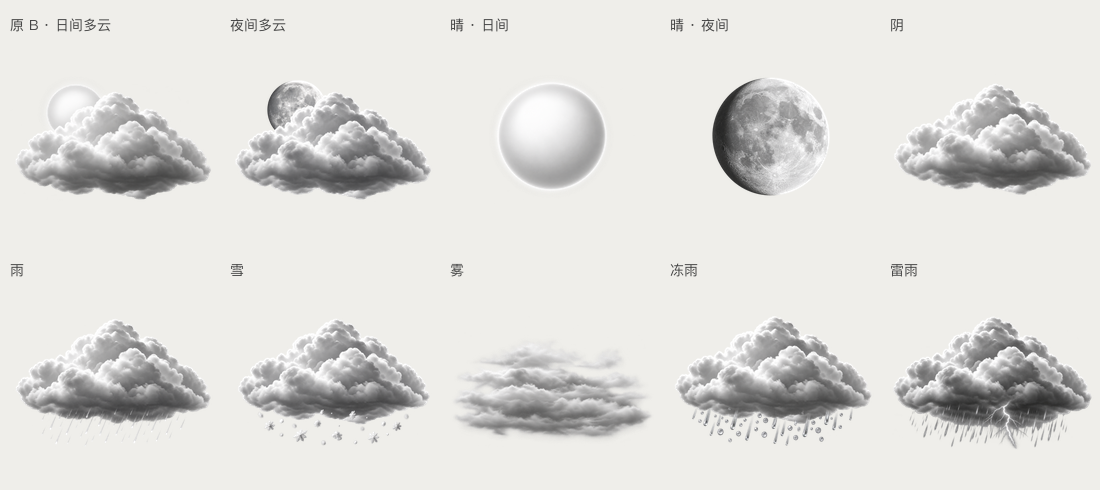
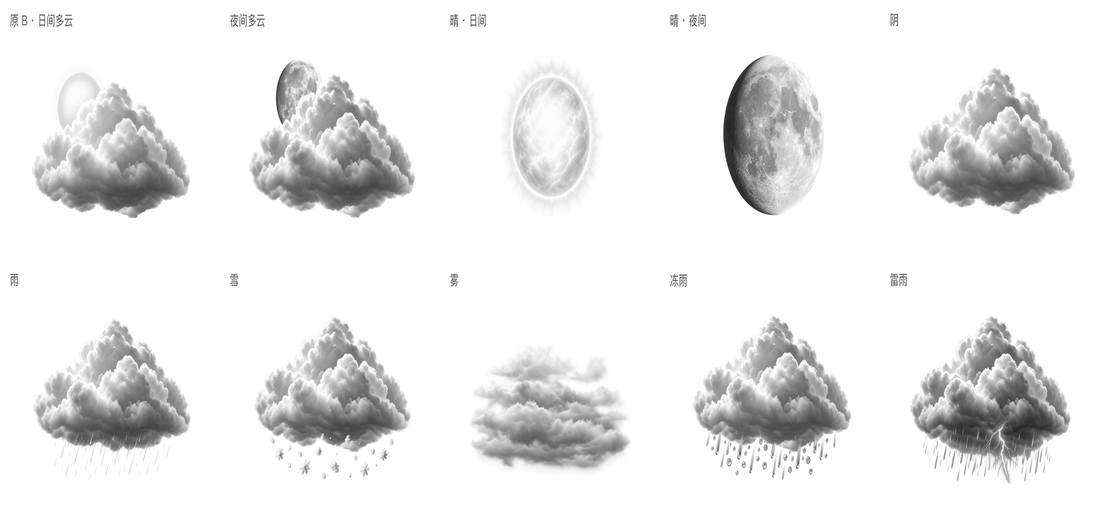
Update sunny artwork, grayscale previews and generation notes

diff --git a/test_weather_app.py b/test_weather_app.py
@@ -96,6 +96,9 @@ class WeatherTests(unittest.TestCase):
     def test_details_is_quiet_and_fetch_runs_hourly(self):
         with tempfile.TemporaryDirectory() as d:
             app=App(DEFAULTS,Path(d));app.action('details');app.last_fetch=10
+            # Keep the initial render on the fixture date so running this test
+            # on another day does not trigger the intentional midnight redraw.
+            app.render(now=NOW)
             with patch.object(app,'fetch') as fetch,patch.object(app,'render') as repaint:
                 app.tick(now=NOW+timedelta(minutes=1),monotonic_now=70)
                 app.tick(now=NOW+timedelta(minutes=59),monotonic_now=3609)

diff --git a/assets/weather-realistic-v1/README.md b/assets/weather-realistic-v1/README.md
@@ -30,3 +30,9 @@
 > Use case: lighting-weather. Edit target: the supplied partly-cloudy weather asset, the established master asset for a grayscale e-paper weather application. Create its NIGHT PARTLY CLOUDY companion. Preserve the SAME detailed natural billowing cumulus cloud silhouette, position, proportions, fine volumetric texture, broad gray shadow masses and silver-white highlights. Change only the celestial object behind upper left: replace the sun with a natural photographic gibbous moon with subtle lunar craters, its lower portion naturally occluded by the unchanged clouds. The moon must be recognizable as moon, with no symbolic crescent outline, no rays, no drawn stars. Keep a predominantly white/silver-gray cloud with readable darker undersides, not a black night scene. Same camera, framing, scale, white light direction, sophisticated photorealistic weather cutout style as supplied asset, not cartoon, not vector, not rounded toy cloud. GENUINELY TRANSPARENT BACKGROUND AND CLEAN ALPHA outside the cloud and moon. No black/gray rectangular background, no square glow backdrop, no scene, no text, no border, no UI, no noise or halftone/dither. Output one single matching night partly cloudy asset.
 
 生成结果做一次本地形态/透明度检查、整套对照与400×300主屏/总览预览；用户新一轮实屏风格验收另计，不把生成完成等同于全部实屏验收。
+
+## 日晴图更新（2026-10-22）
+
+日晴改用 `clear-day-illustrated-v7.png`，沿用原B晴间多云参考，目标是介于卡通与写实之间的细腻天气插画：柔和明暗层次、连续灰度、整圈细短柔光。`manifest.json` 更新为版本7（与开发图稿编号一致），包含新文件SHA-256及首页安全框；首页、此刻与七日继续共用这张日晴素材。其余九款及天气代码映射保持。旧 `clear-day.png` 保留供回退。
+
+本轮仅同步最新设计，日晴的表面纹理与柔光效果仍待打磨，尚未通过用户视觉验收。文档预览使用模拟数据，不表示实屏效果。前几轮已否定的尖刺、碎光与概念图未收录。完整本次生成提示词见 [clear-day-illustrated-v7-prompt.txt](clear-day-illustrated-v7-prompt.txt)。

diff --git a/docs/VALIDATION.md b/docs/VALIDATION.md
@@ -10,3 +10,11 @@
 - 本次打包没有连接真实 NOTE4、推图、重启本地生产应用或烧写固件。Linux/Windows、其他固件及长期运行未在本次验证；离线测试不代表这些环境的实机验收。
 
 已知限制：主机需持续运行；时区固定 Asia/Shanghai；Gray16 当前固件全刷；无设备端应用安装器、自动重连、语音识别或独立时钟页。
+
+## 2026-10-22 图标更新验证
+
+- 新日晴图稿、SHA-256、首页安全框、图集对照、模拟晴天首页与总览预览已同步。原B晴间多云与其他天气代码映射保持。
+- 19项离线测试通过。修正小时刷新测试的初始渲染日期，使其和固定测试数据一致，避免次日执行时把正常跨日重绘误报为分钟刷新；未修改运行刷新逻辑。
+- 发布内容检查通过：77个源码/文档/素材文件，公开占位配置、私人路径扫描及资产哈希正常。SDK28项清单和SHA256SUMS通过；本次未改Python运行代码、Rust桥或SDK，未重新构建Rust。
+- 两张晴天400×300连续灰度模拟页面已目视检查，保留来源标记。太阳的纹理与柔光仍待打磨，未通过用户视觉验收。
+- 本次仓库同步没有连接设备、推图、重启实际应用或修改私人配置。

diff --git a/docs/ICON-UPDATE-2026-10-22.md b/docs/ICON-UPDATE-2026-10-22.md
@@ -1,0 +1,12 @@
+# 日晴图更新 · 2026-10-22
+
+本次将日晴太阳换为原B风格的新图稿，添加整圈细短柔光与银灰明暗层次。首页、总览此刻、七日预报共享相同注册表。保留原B晴间多云及其他天气素材；没有修改天气代码、昼夜判定、取数周期、按键或SDK。
+
+![晴天首页（模拟数据）](preview-sunny-home.png)
+![晴天总览（模拟数据）](preview-sunny-details.png)
+
+这些图是400×300连续灰度预览，温度、电量、日期与预报均为模拟数据；设备由SDK转换Gray16，不使用预抖色图。图稿的表面纹理与柔光仍待打磨，未通过用户视觉验收。
+
+原始素材：`assets/weather-realistic-v1/clear-day-illustrated-v7.png`。manifest版本7对应开发图稿编号，不表示已经发布七个稳定应用版本。旧`clear-day.png`保留但当前未引用，可恢复该文件、原哈希并移除hero_box回退。
+
+本次更新不会复制原作者的设备配置、运行数据、私人照片或内部交接记录。

diff --git a/docs/PROMPTS.md b/docs/PROMPTS.md
@@ -19,3 +19,7 @@ A single beautifully crafted monochrome partly cloudy weather icon, isolated on 
 使用母版 `assets/partly-cloudy.png` 作为参考图，输出带透明 alpha 的单张 PNG；不要生成整张 UI，不加文字、边框、黑色底或抖色。将结果合成到 400×300 灰度画布后，由官方 SDK 转为 Gray16。
 
 生成图像具有随机性，复用提示词不保证逐像素相同；可直接使用仓库内已经生成的 PNG。manifest 中保留 SHA-256 校验。夜间月亮是示意，不代表实时月相。
+
+## 2026-10-22 日晴修订
+
+用户选定的方向是介于卡通与写实之间的细腻天气插画，参考原B晴间多云的云层层次和十六灰表现；此前开发需求中的“写实”不应理解为天文照片或金属质感。日晴使用 [本次完整提示词](../assets/weather-realistic-v1/clear-day-illustrated-v7-prompt.txt)，仍需后续视觉打磨。日晴旧提示词保留为历史生成记录，当前生效资产以manifest为准。

diff --git a/README.md b/README.md
@@ -7,6 +7,8 @@
 
 预览使用模拟天气和电量，不代表实时数据或实屏效果。
 
+2026-10-22：更新日晴太阳图及映射，新增[晴天预览与更新说明](docs/ICON-UPDATE-2026-10-22.md)。沿用原B晴间多云的半写实插画方向；太阳的纹理和柔光仍待打磨，尚未通过用户视觉验收。
+
 **安装的是电脑上的应用，通过官方 SDK 在 NOTE4 上显示和交互。** 当前公开 SDK 不提供向 NOTE4 安装 Python/Rust 应用包的接口；它需要电脑或 NAS 持续运行。无需改写固件，不占用旧云端五张墨卡槽位；主机休眠或程序退出会停止更新与交互。
 
 ## 环境准备
